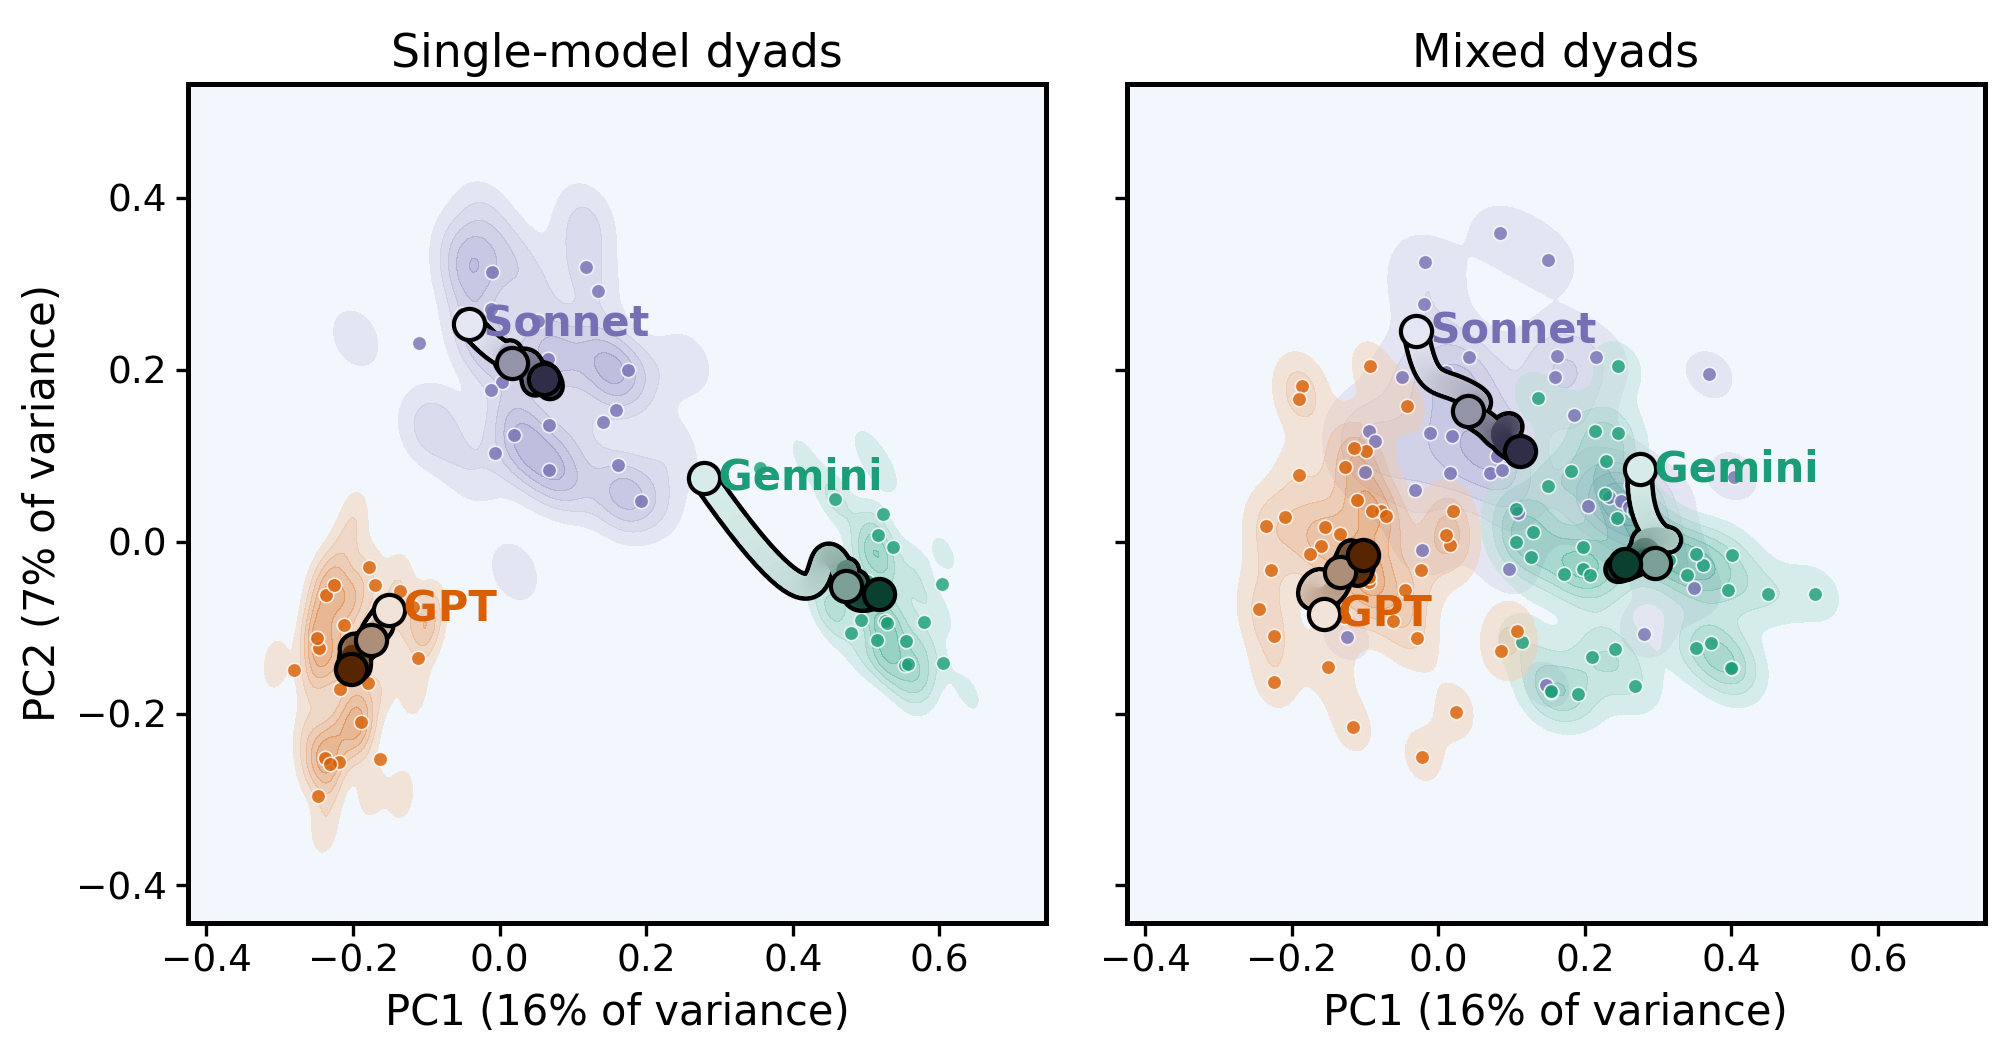
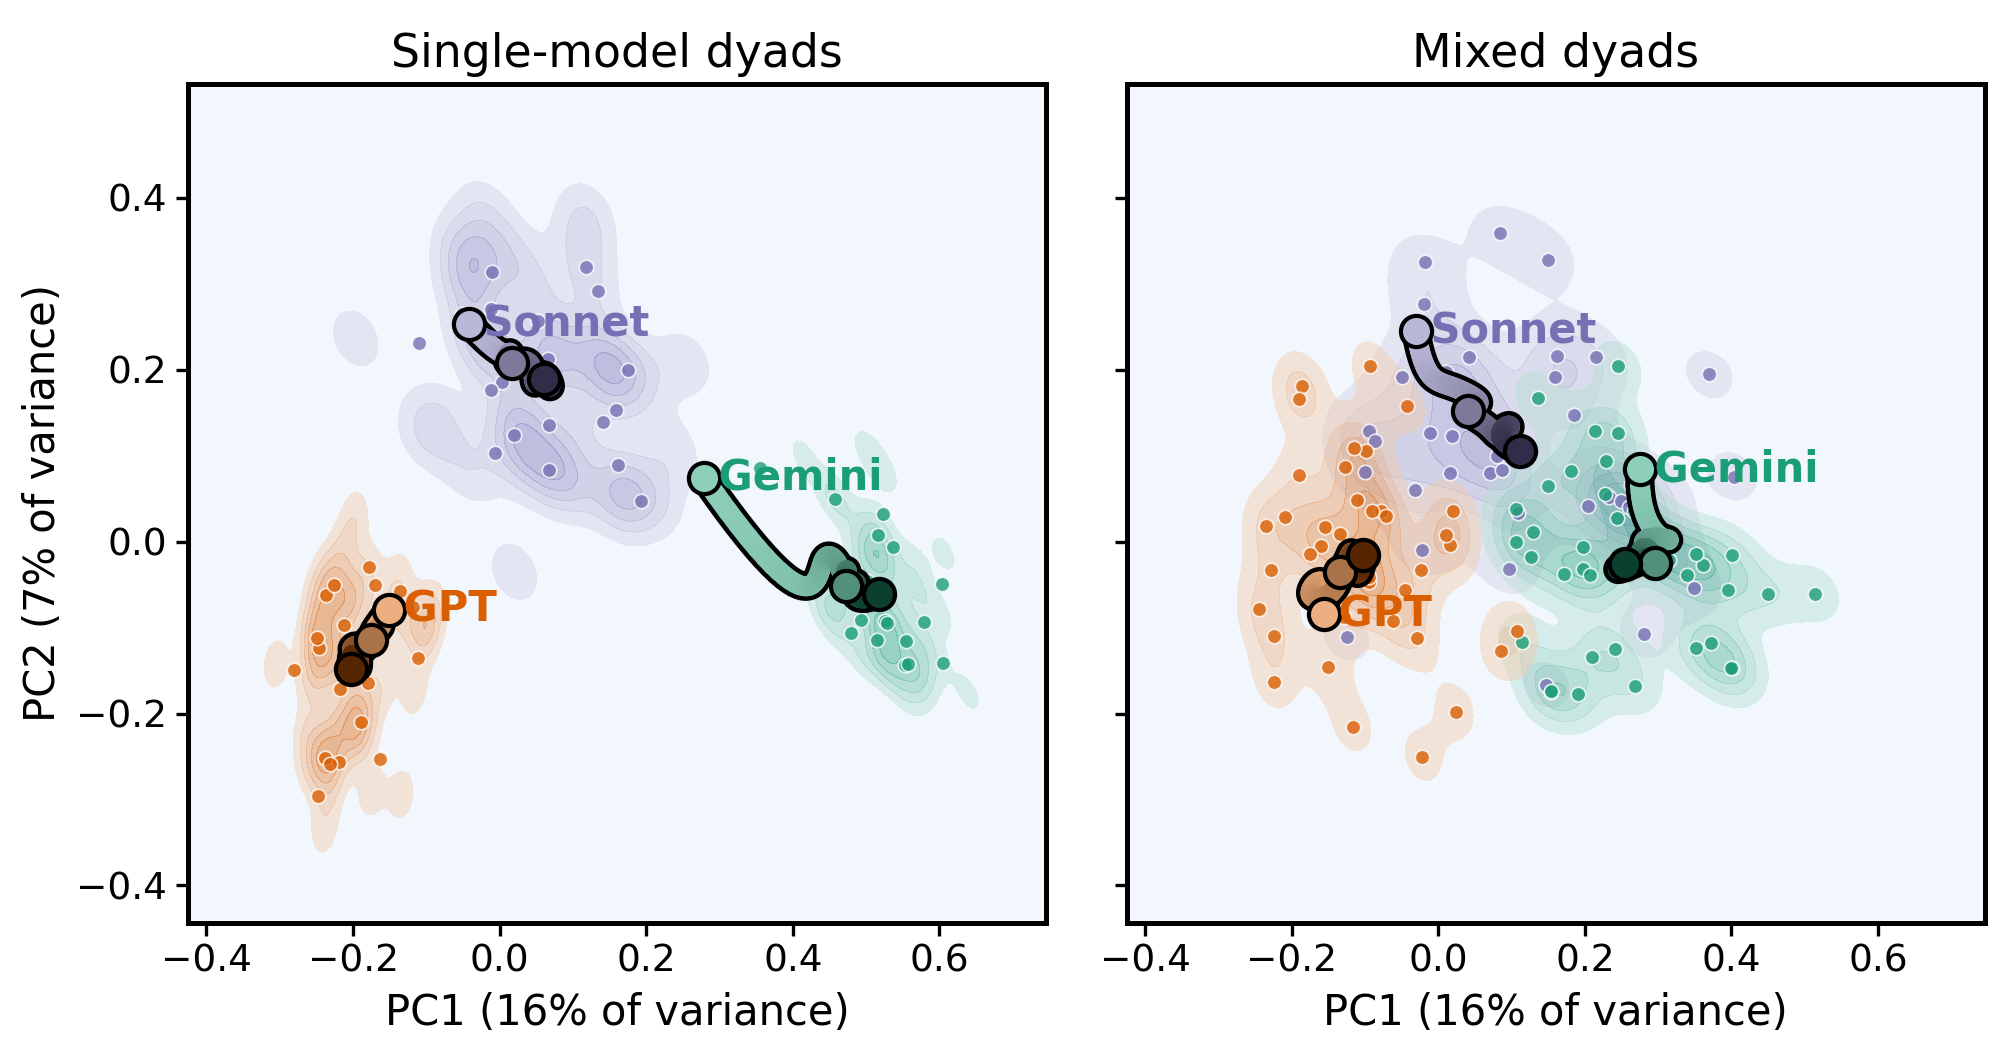
Myth trajectory maps: round 1 at a 50% tint of the family colour

diff --git a/analyses/plot_myth_trajectory_panel.py b/analyses/plot_myth_trajectory_panel.py
@@ -5,7 +5,7 @@ The trajectory view of myth_convergence_map.py (trajectories_8agent.png), on the
 same PCA map of all 300 n = 10 myth runs, with two changes for the paper: the two
 task orders are pooled into one panel per mixing condition, and the background is
 coloured by family (where that family's round-10 myths end up) instead of one blue
-density. Line = family average per round, faintest background band -> dark = round 1 -> 10; big dots =
+density. Line = family average per round, 50% tint -> dark = round 1 -> 10; big dots =
 rounds 1, 5, 10; small dots = each run's family average at round 10.
 8-agent populations (paper Figure 5b) by default; --size 2 draws the dyads (supplementary).
 The task-order split is in trajectories_<n>agent.png;
@@ -39,18 +39,11 @@ BG = "#f2f7fd"  # the pale blue of trajectories_*.png, sampled from that figure
 BAND_ALPHA = 0.45
 
 
-def band_colors(color, n_bands: int = 5):
-    """Opaque on-screen colour of each background band, faintest first (contourf colours each band at
-    its level midpoint, then it is blended at BAND_ALPHA over BG)."""
-    cmap = LinearSegmentedColormap.from_list("", [shade(color, 0), color])
-    bg = np.array(to_rgb(BG))
-    return [BAND_ALPHA * np.array(cmap((i + 0.5) / n_bands)[:3]) + (1 - BAND_ALPHA) * bg for i in range(n_bands)]
-
-
 def tone(color, t: float):
-    """t=0: the faintest visible background band of this family (round 1); t=1: the family colour at
+    """t=0: 50% tint, halfway between white and the family colour (round 1); t=1: the family colour at
     40% brightness (round 10)."""
-    start, end = band_colors(color)[0], np.array(to_rgb(color)) * 0.4
+    c = np.array(to_rgb(color))
+    start, end = 1 - (1 - c) * 0.5, c * 0.4
     return tuple(start + (end - start) * t)
 PATH_LW = 2.4
 
@@ -89,7 +82,7 @@ def main() -> None:
             sx = make_interp_spline(rounds, path.x, k=3)(t)
             sy = make_interp_spline(rounds, path.y, k=3)(t)
             ax.plot(sx, sy, color="k", lw=PATH_LW + 1.1, solid_capstyle="round", zorder=4)  # outline
-            for a in range(len(t) - 1):  # faintest background band -> dark = round 1 -> 10
+            for a in range(len(t) - 1):  # 50% tint -> dark = round 1 -> 10
                 ax.plot(sx[a:a + 2], sy[a:a + 2], color=tone(color, a / len(t)), lw=PATH_LW,
                         solid_capstyle="round", zorder=4.5)
             # no arrowhead: the spline's last few points wiggle, so a head points the wrong way;
